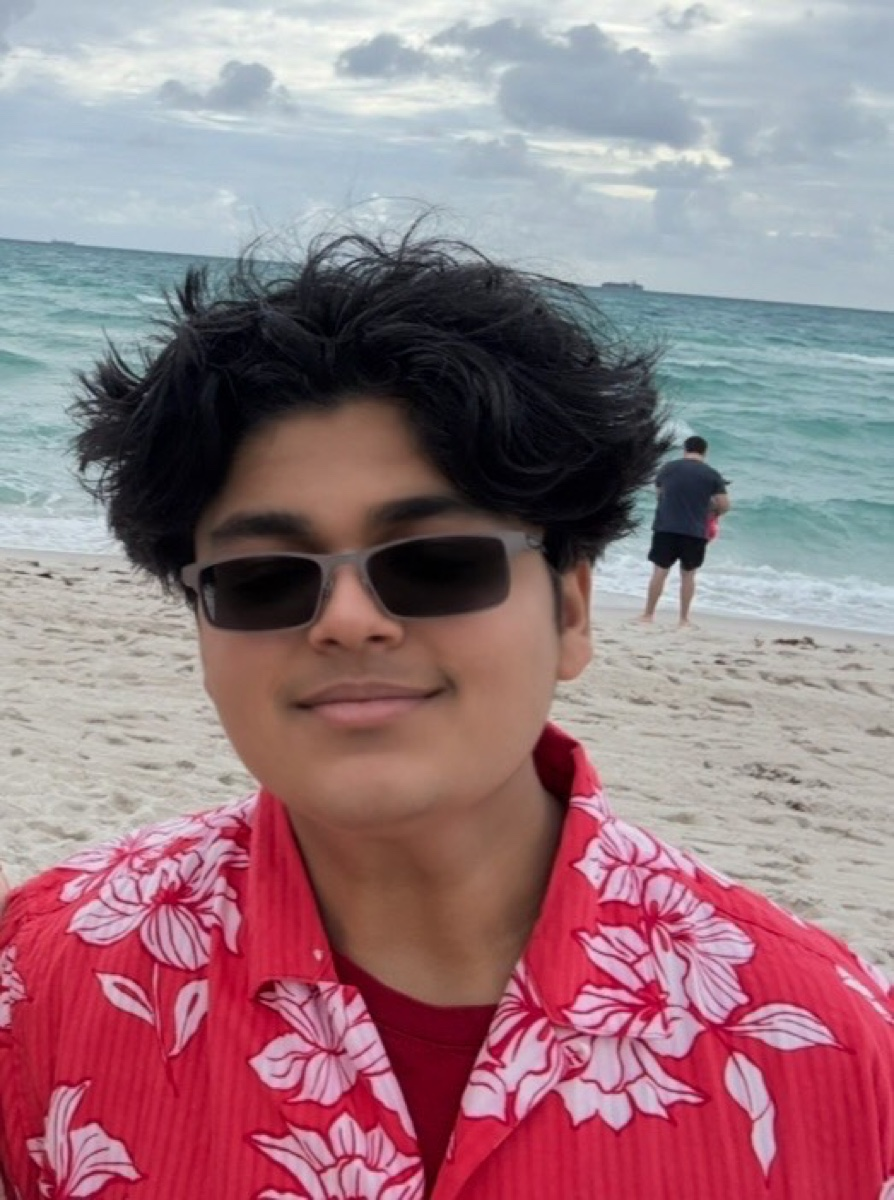
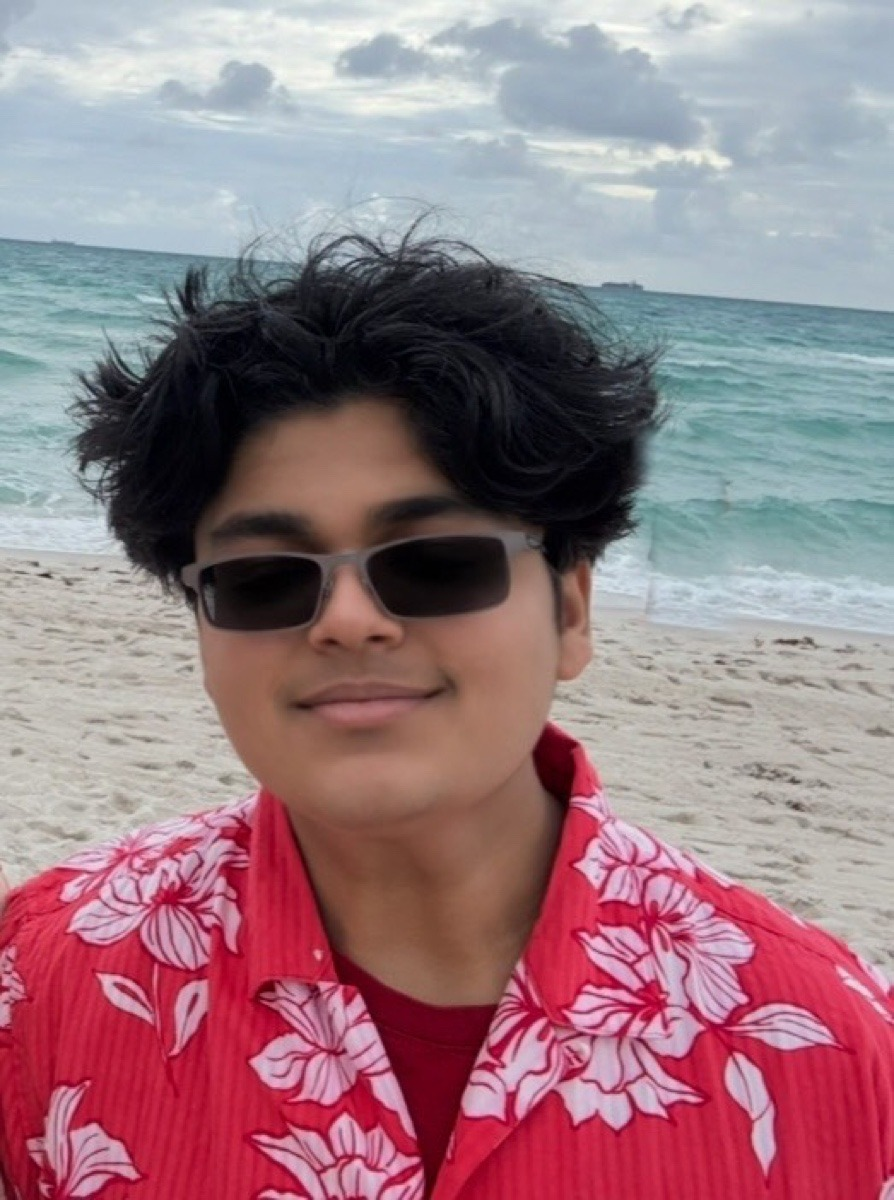
A first screen that asks: the 3D world or the 2D page
Every visit now opens on a short screen with my photo, my name and two
choices. The 3D world is the large card, with a slowly drifting picture
of it and the bright button. The 2D page is a quiet row underneath.

Choosing the world goes straight in, with no second tap on the rover.
The page's "Explore the 3D world" button does the same. On phones the
world is still only downloaded once it is asked for. Links with #world
or #about skip the screen.

The menu's home panel showed a screenshot of the rover. It now shows my
photo, with the passer-by in the background patched out.

Changed region(s): [[0.6946, 0.3392, 0.8154, 0.5242]]

diff --git a/sources/Game/Chooser.js b/sources/Game/Chooser.js
@@ -1,0 +1,92 @@
+import { Game } from './Game.js'
+import { person } from '../data/profile.js'
+
+const ARROW = '<svg width="16" height="16" viewBox="0 0 24 24" fill="none" stroke="currentColor" stroke-width="2.4" stroke-linecap="round" stroke-linejoin="round" aria-hidden="true"><path d="M5 12h14"/><path d="m13 6 6 6-6 6"/></svg>'
+
+/**
+ * The first screen: the visitor picks the 3D world or the 2D page.
+ *
+ * The world is the larger choice, with a picture of it, because it is the
+ * one worth the visit. The page is there for anyone in a hurry. Both stay
+ * one button away afterwards ("About me" in the world, "Explore the 3D
+ * world" on the page).
+ *
+ * Skipped by the hash switches that already say where to go (#world, #about…).
+ */
+export class Chooser
+{
+    constructor()
+    {
+        this.game = Game.getInstance()
+        this.active = !location.hash.match(/skip|world|about|profile|resume/i)
+        this.choice = null
+
+        if(!this.active)
+            return
+
+        this.element = document.createElement('div')
+        this.element.className = 'chooser'
+        this.element.innerHTML = /* html */`
+            <div class="chooser-inner">
+                <header class="chooser-head">
+                    <img class="chooser-photo" src="profile/me-square.webp" alt="${person.name}" width="72" height="72">
+                    <div>
+                        <h1>${person.name}</h1>
+                        <p>I work on robot control and AI agents.</p>
+                    </div>
+                </header>
+                <div class="chooser-options">
+                    <button class="chooser-card is-world js-choose" data-choice="world" type="button">
+                        <span class="chooser-shot"><img src="ui/previews/world.webp" alt="" draggable="false"></span>
+                        <span class="chooser-body">
+                            <span class="chooser-text">
+                                <b>Explore the 3D world</b>
+                                <span>Drive a rover through six stops: my experience, projects, research and how to reach me.</span>
+                            </span>
+                            <span class="chooser-go">Start driving${ARROW}</span>
+                        </span>
+                    </button>
+                    <button class="chooser-card is-page js-choose" data-choice="page" type="button">
+                        <span class="chooser-body">
+                            <span class="chooser-text">
+                                <b>Read the 2D page</b>
+                                <span>The same things on one scrolling page.</span>
+                            </span>
+                            <span class="chooser-go">Open<span class="chooser-wide">&nbsp;the page</span>${ARROW}</span>
+                        </span>
+                    </button>
+                </div>
+            </div>
+        `
+        this.game.domElement.append(this.element)
+        document.documentElement.classList.add('is-choosing')
+
+        // Nothing typed or pressed here reaches the world underneath
+        for(const type of [ 'mousedown', 'touchstart', 'keydown' ])
+            this.element.addEventListener(type, (event) => { event.stopPropagation() })
+
+        for(const button of this.element.querySelectorAll('.js-choose'))
+        {
+            button.addEventListener('click', () =>
+            {
+                this.choose(button.dataset.choice)
+            })
+        }
+    }
+
+    choose(choice)
+    {
+        if(this.choice)
+            return
+
+        this.choice = choice
+        document.documentElement.classList.remove('is-choosing')
+        this.element.classList.add('is-leaving')
+        setTimeout(() => { this.element.remove() }, 700)
+
+        if(choice === 'world')
+            this.game.enterWorld()
+        else
+            this.game.profile.open()
+    }
+}

diff --git a/sources/Game/Game.js b/sources/Game/Game.js
@@ -53,6 +53,7 @@ import { Keynote } from './Keynote.js'
 import { Route } from './Route.js'
 import { Guide } from './Guide.js'
 import { BoardCaption } from './BoardCaption.js'
+import { Chooser } from './Chooser.js'
 import { TimelineCaption } from './TimelineCaption.js'
 import { Machines } from './World/Machines.js'
 
@@ -103,9 +104,12 @@ export class Game
 
         // On a phone the About page comes first, and the 3D world is only
         // downloaded and built once the visitor asks for it
+        // The first screen asks: the 3D world, or the 2D page
+        this.chooser = new Chooser()
+
         const phone = Math.min(window.innerWidth, window.innerHeight) < 600 && matchMedia('(pointer: coarse)').matches
         if(phone && !location.hash.match(/skip|world/i))
-            await this.aboutFirst()
+            await this.aboutFirst(!this.chooser.active)
 
         this.rendering = new Rendering()
         await this.rendering.setRenderer()
@@ -231,7 +235,7 @@ export class Game
      * Shows the About page and waits. Resolves when it is closed (or its
      * "Explore the 3D world" button is used), which lets init() carry on.
      */
-    aboutFirst()
+    aboutFirst(openPage = true)
     {
         return new Promise((resolve) =>
         {
@@ -269,8 +273,22 @@ export class Game
                 }, 120)
             })
 
-            this.profile.open()
+            // With the chooser up, it decides whether the page opens
+            if(openPage)
+                this.profile.open()
         })
+    }
+
+    /**
+     * The visitor asked for the 3D world (the chooser, or the page's
+     * "Explore the 3D world" button): build it if a phone has been holding
+     * off, and go straight in without the extra tap on the rover.
+     */
+    enterWorld()
+    {
+        this.autoStart = true
+        this.startWorld?.()
+        this.reveal?.startNow?.()
     }
 
     reset()

diff --git a/sources/Game/Reveal.js b/sources/Game/Reveal.js
@@ -100,7 +100,7 @@ export class Reveal
                     this.game.world.cherryTrees.leaves.seeThroughMultiplier = 0.5
 
                 // Click
-                if(location.hash.match(/skip/i))
+                if(location.hash.match(/skip/i) || this.game.autoStart)
                 {
                     this.updateStep(1)
                 }
@@ -110,10 +110,12 @@ export class Reveal
                     let started = false
                     const next = () =>
                     {
-                        if(started)
+                        // Not while the first screen is still asking
+                        if(started || document.documentElement.classList.contains('is-choosing'))
                             return
 
                         started = true
+                        this.startNow = null
                         this.game.canvasElement.removeEventListener('pointerup', next)
                         this.updateStep(1)
                         this.game.inputs.events.off('introStart', inputCallback)
@@ -152,6 +154,9 @@ export class Reveal
             // { name: 'forward',               categories: [ 'wandering', 'racing', 'cinematic' ], keys: [ 'Keyboard.ArrowUp', 'Keyboard.KeyW', 'Gamepad.up', 'Gamepad.r2' ] },
             // { name: 'right',                 categories: [ 'wandering', 'racing', 'cinematic' ], keys: [ 'Keyboard.ArrowRight', 'Keyboard.KeyD', 'Gamepad.right' ] },
                     this.game.inputs.events.on('introStart', inputCallback)
+
+                    // For the chooser and the page's world button, which start it without a tap on the rover
+                    this.startNow = next
 
                     // On a touch screen, or any upright window (where the page shows the
                     // prompt as text), anywhere on the scene starts it, not only the rover

diff --git a/sources/index.html b/sources/index.html
@@ -186,7 +186,7 @@
 
                         <!-- Intro -->
                         <div class="js-preview preview home-preview">
-                            <img class="background" src="ui/previews/home.webp" loading="lazy" draggable="false">
+                            <img class="background" src="profile/me.webp" alt="Ojasva Mishra" loading="lazy" draggable="false">
                         </div>
 
                         <!-- Options -->

diff --git a/sources/Game/Profile.js b/sources/Game/Profile.js
@@ -468,6 +468,7 @@ export class Profile
             element.addEventListener('click', () =>
             {
                 this.game.modals.close()
+                this.game.enterWorld()
             })
         }
 
